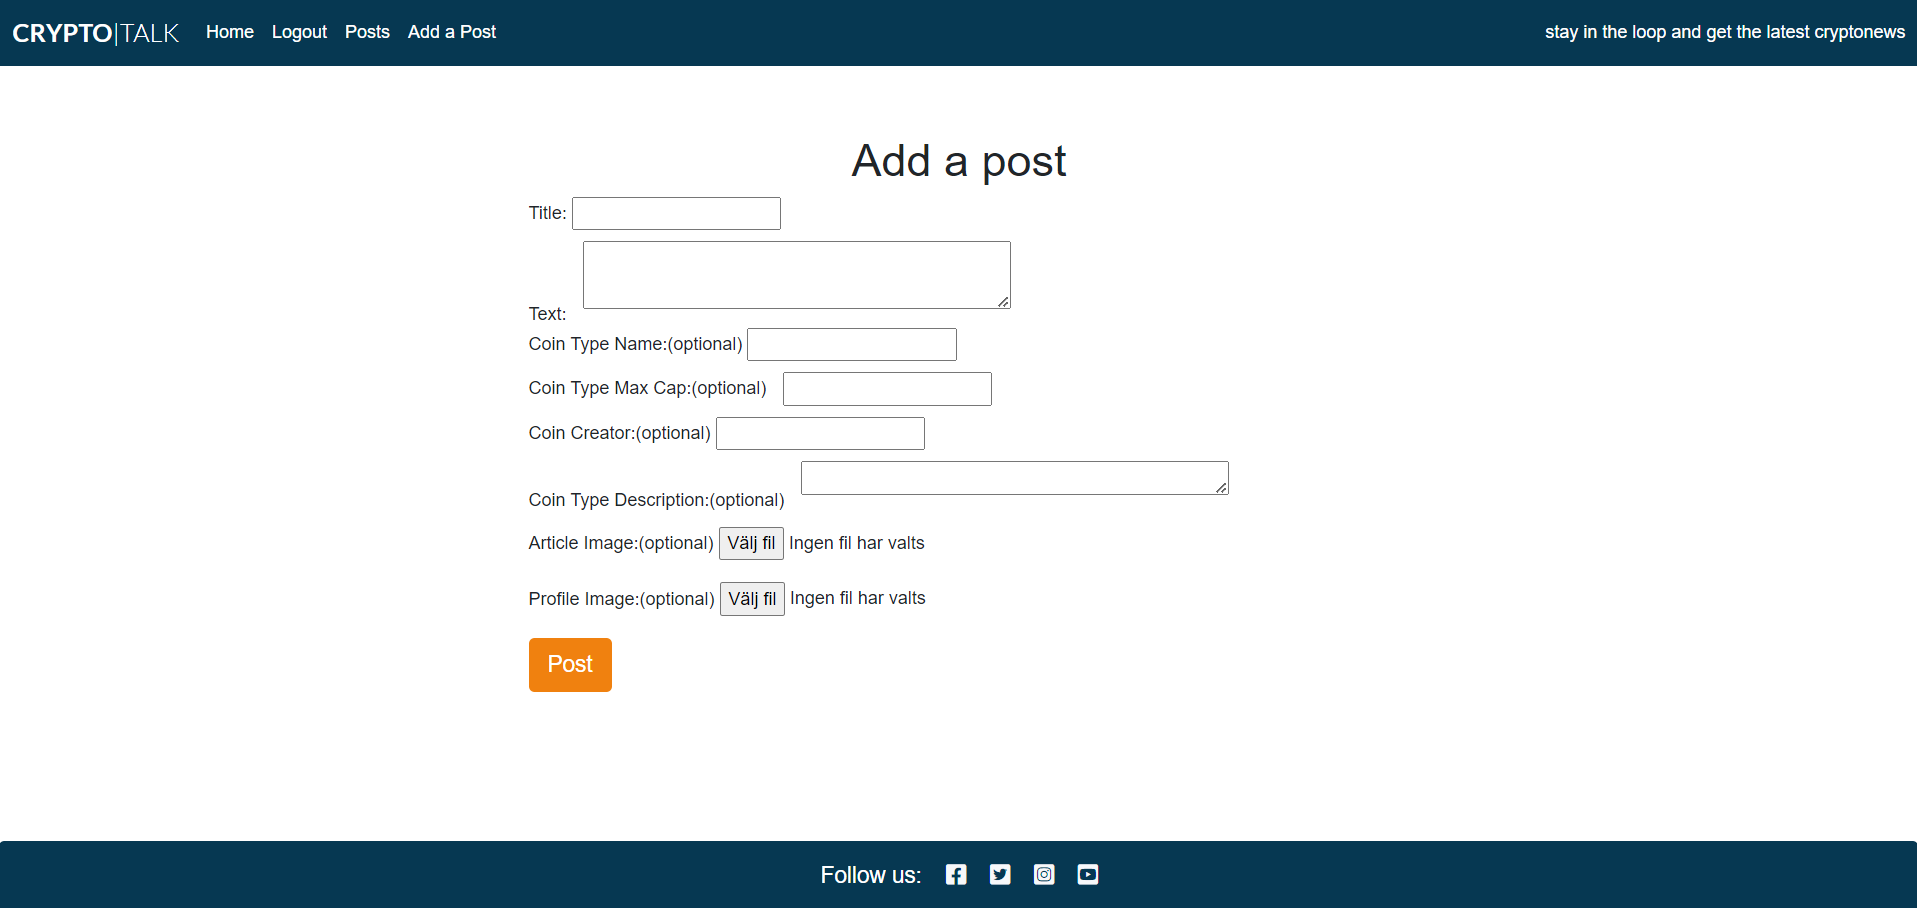
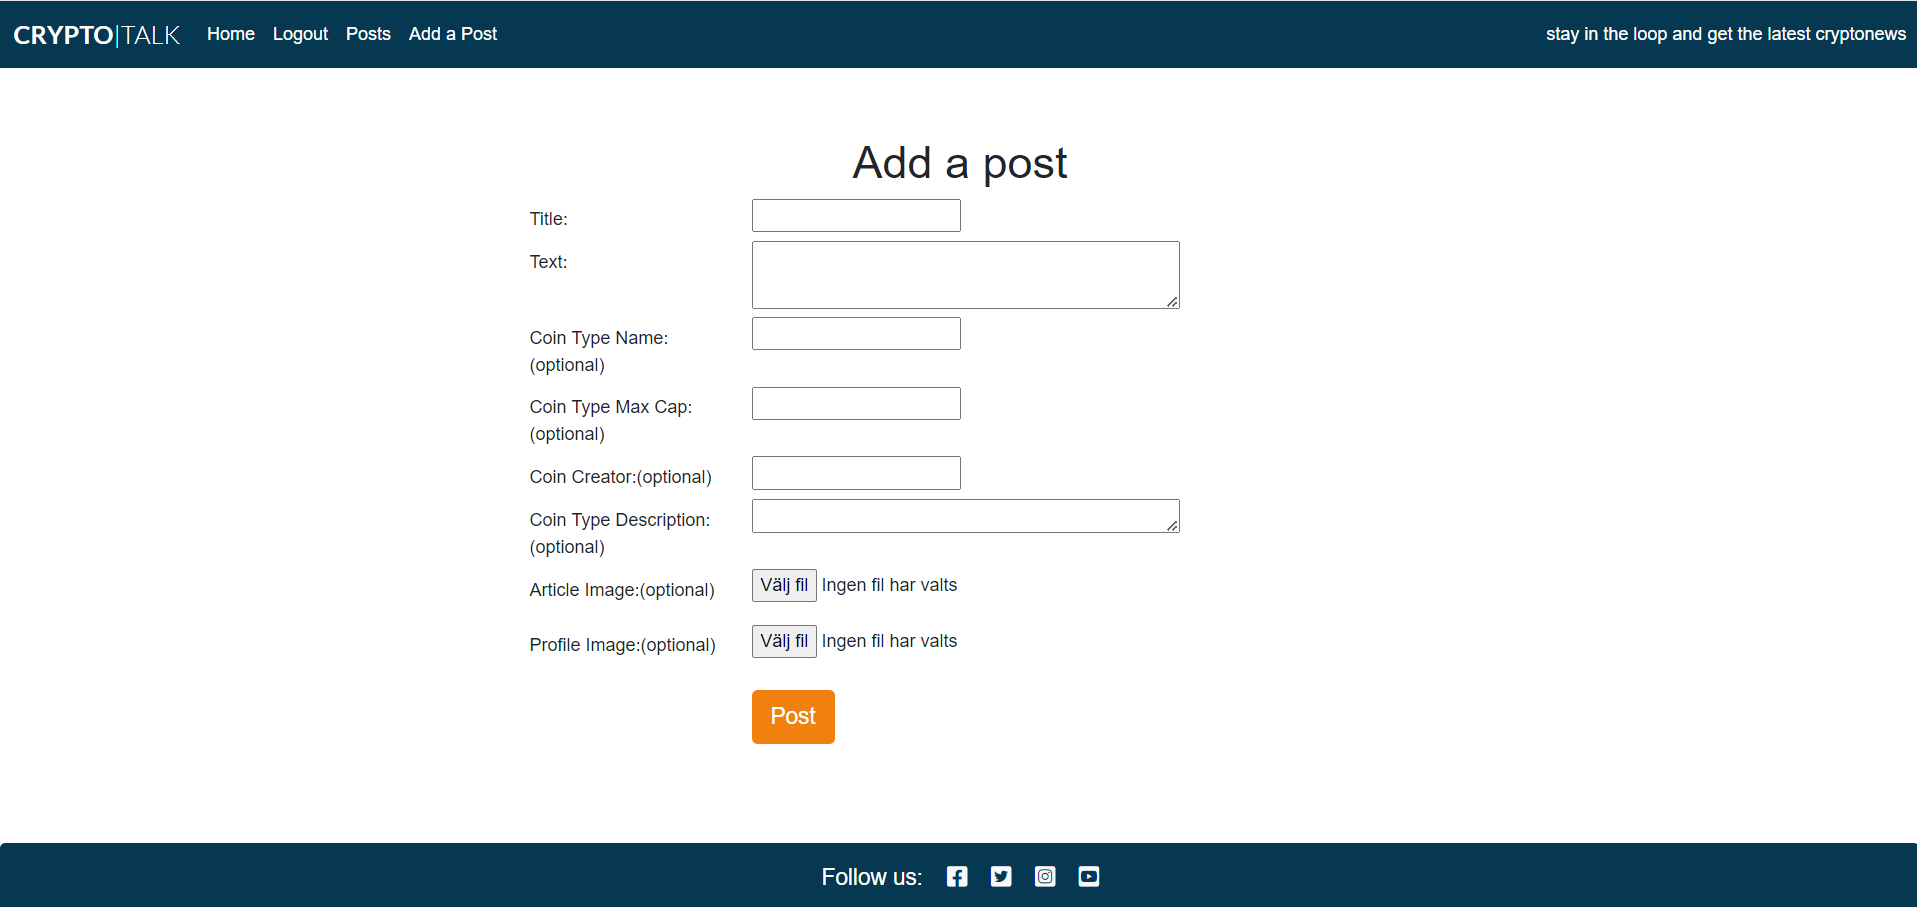
updating add_post and edit_post forms and their respective screenshots

diff --git a/templates/update_post.html b/templates/update_post.html
@@ -7,55 +7,55 @@
         <form method="POST" enctype="multipart/form-data">
           {% csrf_token %}
           <div class="form-group row">
-            <label for="id_title" class="col-sm-2 col-form-label">Title:</label>
-            <div class="col-sm-10">
+            <label for="id_title" class="col-sm-3 col-form-label">Title:</label>
+            <div class="col-sm-5">
               {{ form.title }}
             </div>
           </div>
           <div class="form-group row">
-            <label id="text_input" for="id_body" class="col-sm-2 col-form-label">Text:</label>
-            <div class="col-sm-10">
+            <label id="text_input" for="id_body" class="col-sm-3 col-form-label">Text:</label>
+            <div class="col-sm-5">
               {{ form.body }}
             </div>
           </div>
           <div class="form-group row">
-            <label for="id_coin_type_name" class="col-sm-2 col-form-label">Coin Type Name:(optional)</label>
-            <div class="col-sm-10">
+            <label for="id_coin_type_name" class="col-sm-3 col-form-label">Coin Type Name:(optional)</label>
+            <div class="col-sm-5">
               {{ form.coin_type_name }}
             </div>
           </div>
           <div class="form-group row">
-            <label for="id_coin_type_max_cap" class="col-sm-2 col-form-label">Coin Type Max Cap:(optional)</label>
-            <div class="col-sm-10">
+            <label for="id_coin_type_max_cap" class="col-sm-3 col-form-label">Coin Type Max Cap:(optional)</label>
+            <div class="col-sm-5">
               {{ form.coin_type_max_cap }}
             </div>
           </div>
           <div class="form-group row">
-            <label for="id_coin_type_max_cap" class="col-sm-2 col-form-label">Coin Creator:(optional)</label>
-            <div class="col-sm-10">
+            <label for="id_coin_type_max_cap" class="col-sm-3 col-form-label">Coin Creator:(optional)</label>
+            <div class="col-sm-5">
               {{ form.coin_creator }}
             </div>
           </div>
           <div class="form-group row">
-            <label for="id_coin_type_description" class="col-sm-2 col-form-label">Coin Type Description:(optional)</label>
-            <div class="col-sm-10">
+            <label for="id_coin_type_description" class="col-sm-3 col-form-label">Coin Type Description:(optional)</label>
+            <div class="col-sm-5">
               {{ form.coin_type_description }}
             </div>
           </div>
           <div class="form-group row">
-            <label for="id_featured_image" class="col-sm-2 col-form-label">Article Image:(optional)</label>
-            <div class="col-sm-10">
+            <label for="id_featured_image" class="col-sm-3 col-form-label">Article Image:(optional)</label>
+            <div class="col-sm-5">
               <input type="file" style="margin-bottom: 20px;" id="id_featured_image" name="featured_image">
             </div>
           </div>
           <div class="form-group row">
-            <label for="id_author_image" class="col-sm-2 col-form-label">Profile Image:(optional)</label>
-            <div class="col-sm-10">
+            <label for="id_author_image" class="col-sm-3 col-form-label">Profile Image:(optional)</label>
+            <div class="col-sm-5">
               <input type="file" id="id_author_image" name="author_image">
             </div>
           </div>
           <div class="form-group row">
-            <div class="col-sm-10 offset-sm-2">
+            <div class="col-sm-5 offset-sm-3">
               <button style="margin-top: 20px;" class="btn btn-signup right btn-lg" type="submit">Post</button>
             </div>
           </div>
@@ -63,6 +63,7 @@
       </div>
     </div>
   </div>
+  
 
 {% endblock %}
 
